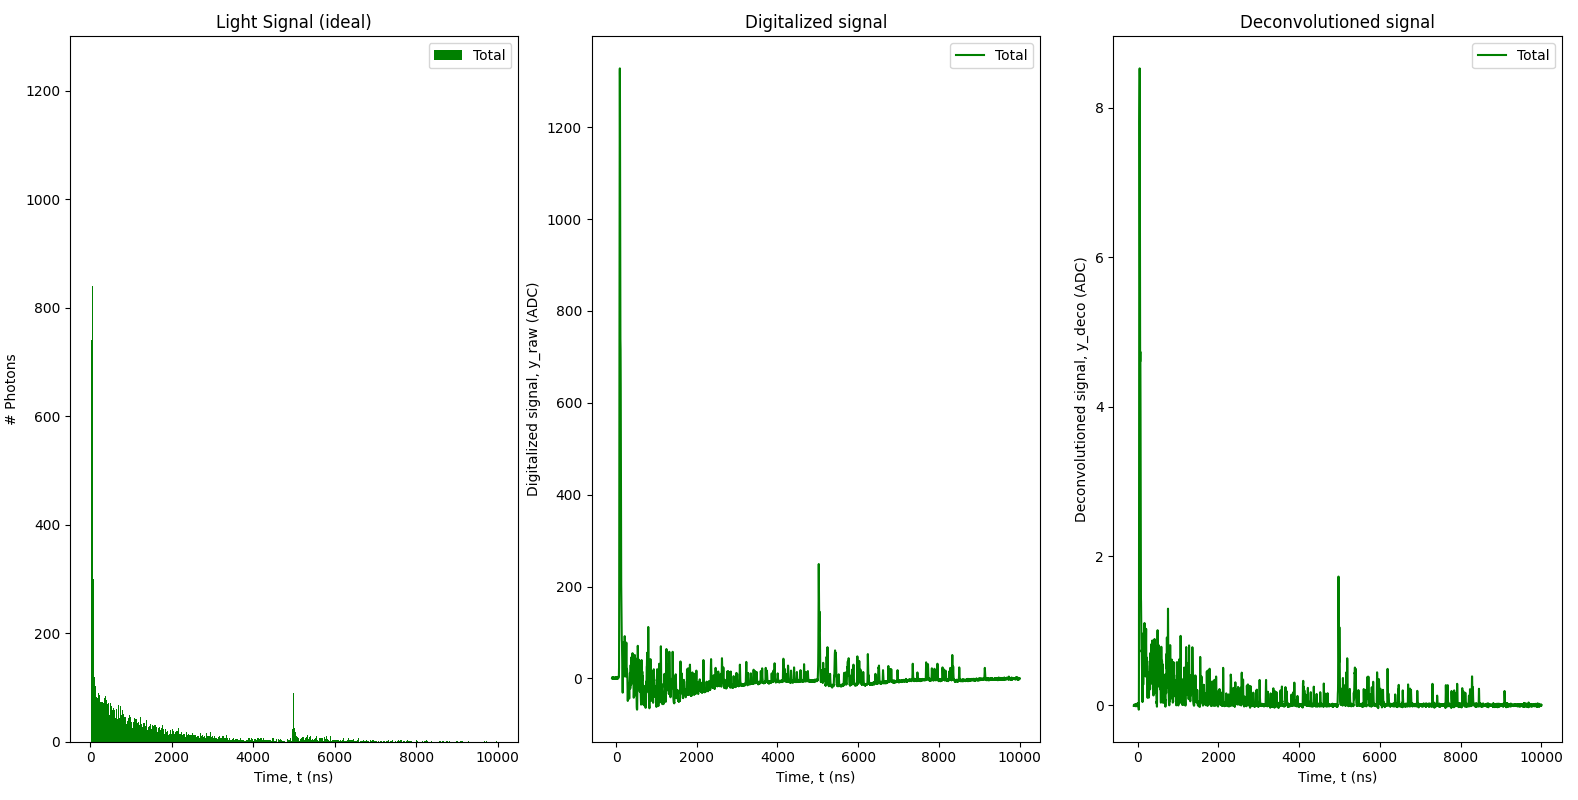
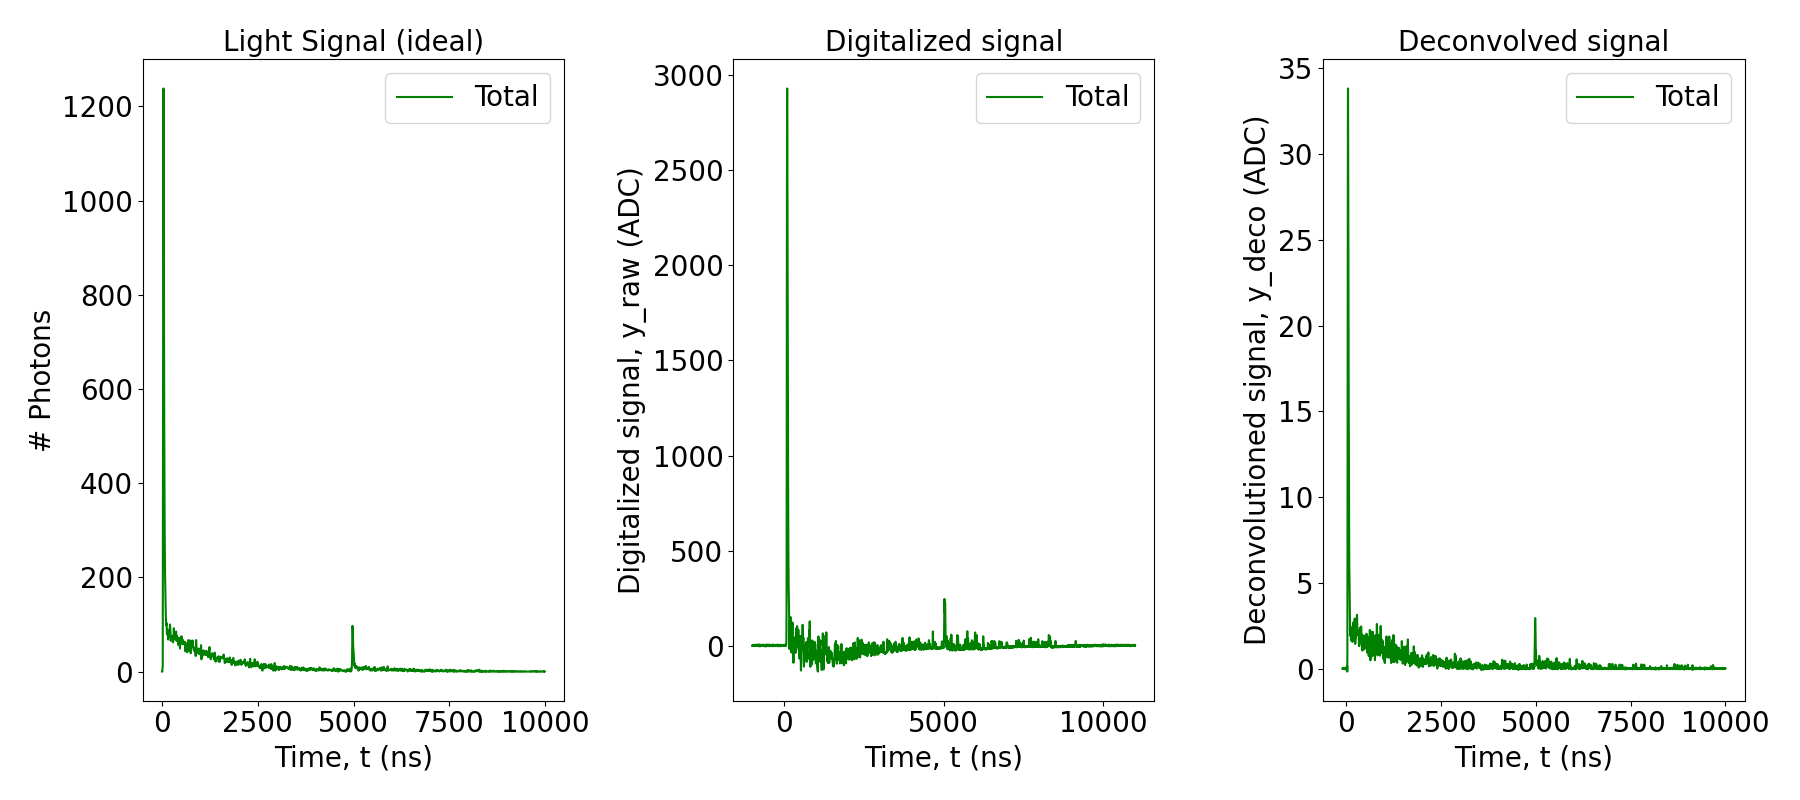
Regenerating some figures

diff --git a/scripts/python/Graphics/SignalComparation.py b/scripts/python/Graphics/SignalComparation.py
@@ -59,8 +59,8 @@ samplingTime = 2 # ns
 shiftStamp = 135. # ns 
 
 branches_to_activate = ["SimPhotonsLiteVUV", "SimPhotonsLiteVIS", 
-                        # "SignalsDigi", "SignalsDeco", "OpChDigi",
-                        # "OpChDeco", "StampTime", "StampTimeDeco",
+                        "SignalsDigi", "SignalsDeco", "OpChDigi",
+                        "OpChDeco", "StampTime", "StampTimeDeco",
                         "stepX", "dE", "PDGcode", "eventID"
                         ]
 
@@ -138,37 +138,37 @@ for folder in os.listdir(ROOT):
                 # ################################################################
                 # # ADC SIGNALS
                 # ################################################################
-                # # Calculate raw and deco signal (DIGITALIZED and DECONVOLUTIONED)
+                # Calculate raw and deco signal (DIGITALIZED and DECONVOLUTIONED)
                 
-                # X_raw, Y_raw = [], []
-                # # DIGITALIZED
-                # for j in range(len(branches["OpChDigi"][entry])): # above PDs
-                #     if (j not in etl.sel_PMTsID): continue
+                X_raw, Y_raw = [], []
+                # DIGITALIZED
+                for j in range(len(branches["OpChDigi"][entry])): # above PDs
+                    if (j not in etl.sel_PMTsID): continue
 
-                #     signalDigi = etl.getRawSignal(branches["SignalsDigi"][entry], 
-                #                                   branches["StampTime"][entry], 
-                #                                   j)
+                    signalDigi = etl.getRawSignal(branches["SignalsDigi"][entry], 
+                                                  branches["StampTime"][entry], 
+                                                  j)
                     
-                #     if len(signalDigi[1]) == 0: continue
+                    if len(signalDigi[1]) == 0: continue
                         
-                #     X_raw.append(signalDigi[0])
-                #     Y_raw.append(signalDigi[1])
+                    X_raw.append(signalDigi[0])
+                    Y_raw.append(signalDigi[1])
                     
-                # x_raw_hot, y_raw_hot = signal_hot(X_raw, Y_raw)
+                x_raw_hot, y_raw_hot = signal_hot(X_raw, Y_raw, n=3)
                             
-                # # DECONVOLUTIONED
-                # X_deco, Y_deco = [], []
-                # for j in range(len(branches["OpChDeco"][entry])): # above PDs
-                #     signalDeco = etl.getDecoSignal(branches["SignalsDeco"][entry], 
-                #                                   branches["StampTimeDeco"][entry], 
-                #                                   j)
+                # DECONVOLUTIONED
+                X_deco, Y_deco = [], []
+                for j in range(len(branches["OpChDeco"][entry])): # above PDs
+                    signalDeco = etl.getDecoSignal(branches["SignalsDeco"][entry], 
+                                                  branches["StampTimeDeco"][entry], 
+                                                  j)
                     
-                #     if len(signalDeco[1]) == 0: continue
+                    if len(signalDeco[1]) == 0: continue
                     
-                #     X_deco.append(signalDeco[0])
-                #     Y_deco.append(signalDeco[1])                    
+                    X_deco.append(signalDeco[0])
+                    Y_deco.append(signalDeco[1])                    
                     
-                # x_deco_hot, y_deco_hot = signal_hot(X_deco, Y_deco, n=1)
+                x_deco_hot, y_deco_hot = signal_hot(X_deco, Y_deco, n=3)
                 
                 # if (len(x_deco_hot) != 5050 or len(y_deco_hot) != 5050): 
                 #     print(str(n) + '_' + str(event))
@@ -183,49 +183,53 @@ for folder in os.listdir(ROOT):
                 # ################################################################
                 # # PLOT
                 # ################################################################
-                # print(str(n) + '_' + str(event))
-                # fig, axs = plt.subplots(1,3,figsize=(18, 8))
-                # axs[0].hist(LightSignal, 1000, [0,10000], color = 'g', label='Total')
-                # axs[0].set_xlabel("Time, t (ns)")
-                # axs[0].set_ylabel("# Photons")
-                # axs[0].set_title("Light Signal (ideal)")
-                # axs[0].legend(loc='best')
+                print(str(n) + '_' + str(event))
+                fontsize=20
+                plt.rcParams['font.size'] = str(fontsize)
                 
-                # axs[1].plot(x_raw_hot, y_raw_hot, color = 'g', label='Total')
-                # axs[1].set_xlabel("Time, t (ns)")
-                # axs[1].set_ylabel("Digitalized signal, y_raw (ADC)")
-                # axs[1].set_title("Digitalized signal")
-                # axs[1].legend(loc='best')
+                fig, axs = plt.subplots(1,3,figsize=(18, 8))
+                axs[0].plot(np.arange(0,10000,10), LightSignal, color = 'g', label='Total')
+                axs[0].set_xlabel("Time, t (ns)")
+                axs[0].set_ylabel("# Photons", fontsize=fontsize)
+                axs[0].set_title("Light Signal (ideal)", fontsize=fontsize)
+                axs[0].legend(loc='best', prop={'size':fontsize})
                 
-                # axs[2].plot(x_deco_hot, y_deco_hot, color = 'g', label='Total')
-                # axs[2].set_xlabel("Time, t (ns)")
-                # axs[2].set_ylabel("Deconvolutioned signal, y_deco (ADC)")
-                # axs[2].set_title("Deconvolutioned signal")
-                # axs[2].legend(loc='best')
+                axs[1].plot(x_raw_hot, y_raw_hot, color = 'g', label='Total')
+                axs[1].set_xlabel("Time, t (ns)", fontsize=fontsize)
+                axs[1].set_ylabel("Digitalized signal, y_raw (ADC)", fontsize=fontsize)
+                axs[1].set_title("Digitalized signal", fontsize=fontsize)
+                axs[1].legend(loc='best')
                 
-                # plt.tight_layout()
-                # plt.show()
+                axs[2].plot(x_deco_hot, y_deco_hot, color = 'g', label='Total')
+                axs[2].set_xlabel("Time, t (ns)", fontsize=fontsize)
+                axs[2].set_ylabel("Deconvolutioned signal, y_deco (ADC)", fontsize=fontsize)
+                axs[2].set_title("Deconvolved signal", fontsize=fontsize)
+                axs[2].legend(loc='best', prop={'size':fontsize})
                 
-                # fig, axs = plt.subplots(1,3,figsize=(18, 8))
-                # axs[0].plot(np.arange(0,10000,10), VIS, color = 'g', label='VIS')
-                # axs[0].set_xlabel("Time, t (ns)")
-                # axs[0].set_ylabel("# Photons")
-                # axs[0].set_title("Light Signal (ideal)")
-                # axs[0].legend(loc='best')
+                plt.tight_layout()
+                plt.show()
                 
-                # axs[1].plot(np.arange(0,10000,10), VUV, color = 'g', label='VUV')
-                # axs[1].set_xlabel("Time, t (ns)")
-                # axs[1].set_ylabel("# Photons")
-                # axs[1].set_title("Light Signal (ideal)")
-                # axs[1].legend(loc='best')
+                fig, axs = plt.subplots(1,3,figsize=(18, 8))
+                axs[0].plot(np.arange(0,10000,10), VIS, color = 'g', label='VIS')
+                axs[0].set_xlabel("Time, t (ns)", fontsize=fontsize)
+                axs[0].set_ylabel("# Photons", fontsize=fontsize)
+                axs[0].set_title("Light Signal (ideal)", fontsize=fontsize)
+                axs[0].legend(loc='best')
                 
-                # axs[2].plot(np.arange(0,10000,10), LightSignal, color = 'g', label='TOTAL')
-                # axs[2].set_xlabel("Time, t (ns)")
-                # axs[2].set_ylabel("# Photons")
-                # axs[2].set_title("Light Signal (ideal)")
-                # axs[2].legend(loc='best')
+                axs[1].plot(np.arange(0,10000,10), VUV, color = 'g', label='VUV')
+                axs[1].set_xlabel("Time, t (ns)")
+                axs[1].set_ylabel("# Photons")
+                axs[1].set_title("Light Signal (ideal)")
+                axs[1].legend(loc='best')
                 
-                # plt.show()
+                axs[2].plot(np.arange(0,10000,10), LightSignal, color = 'g', label='TOTAL')
+                axs[2].set_xlabel("Time, t (ns)")
+                axs[2].set_ylabel("# Photons")
+                axs[2].set_title("Light Signal (ideal)")
+                axs[2].legend(loc='best')
+                
+                plt.tight_layout()
+                plt.show()
             
             n+=1
             print('Tree: ', n)
